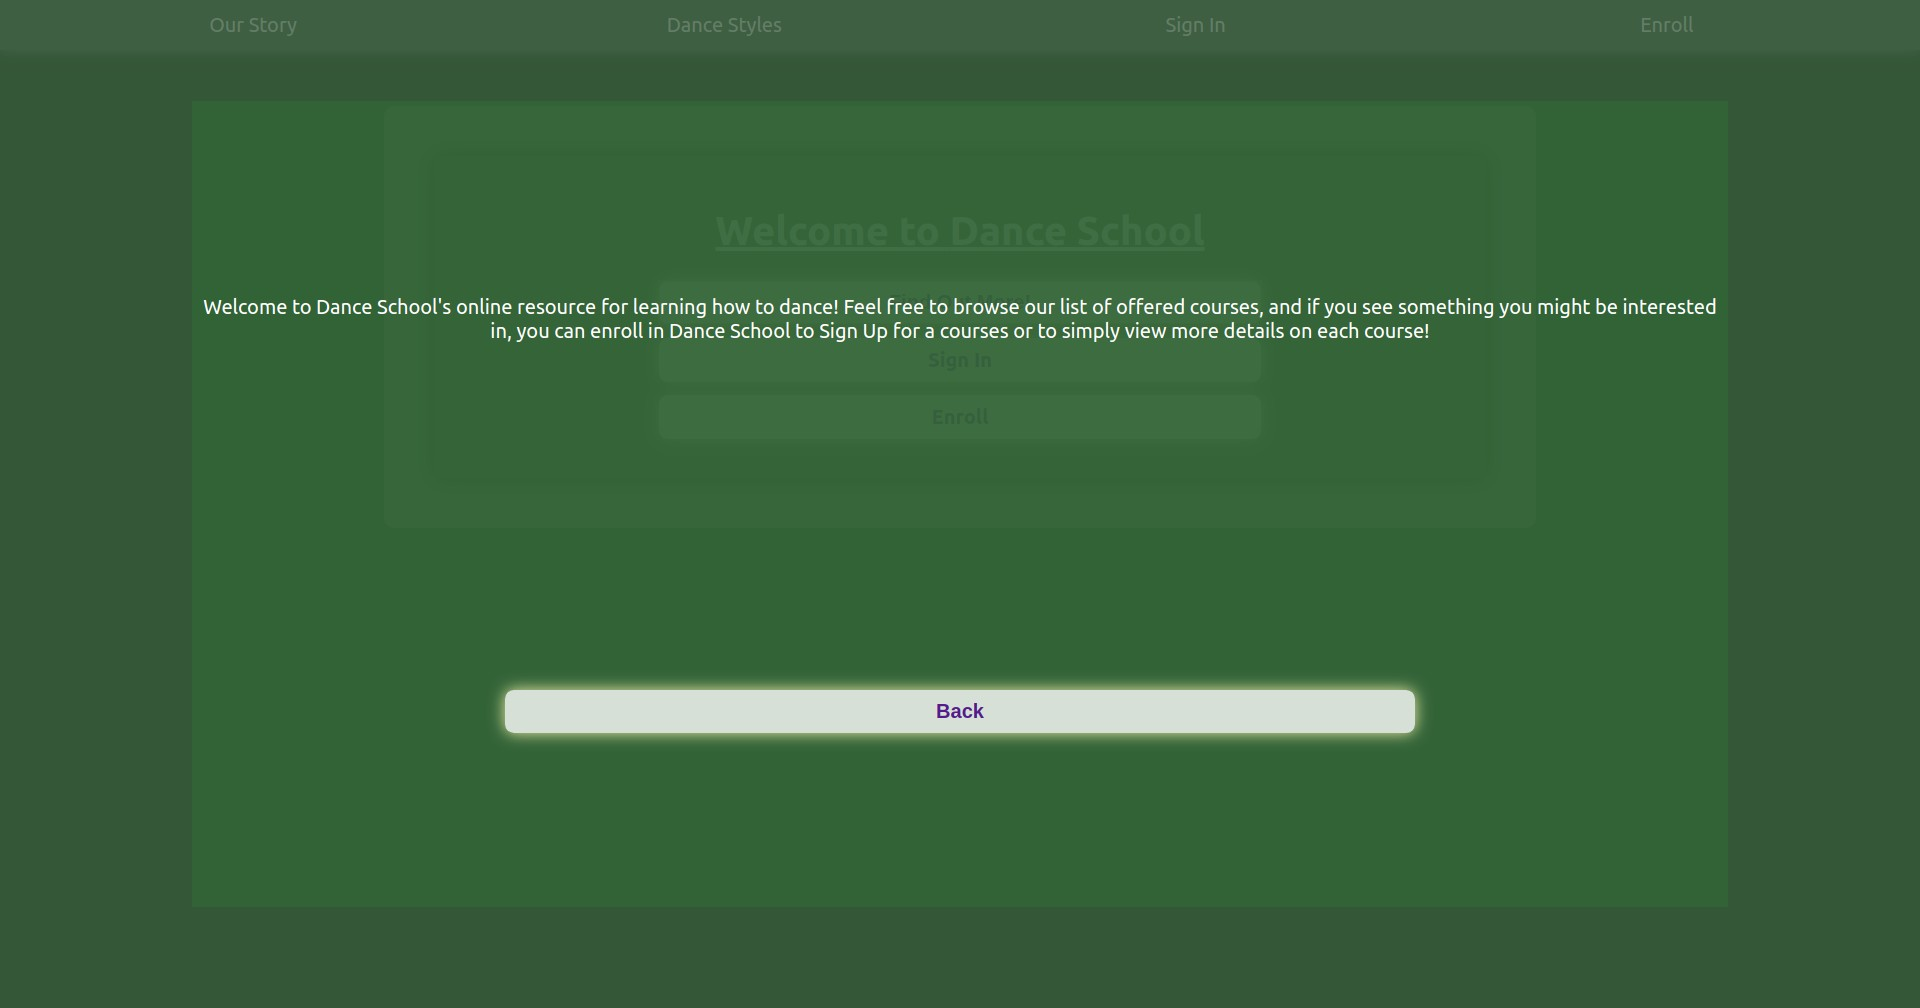
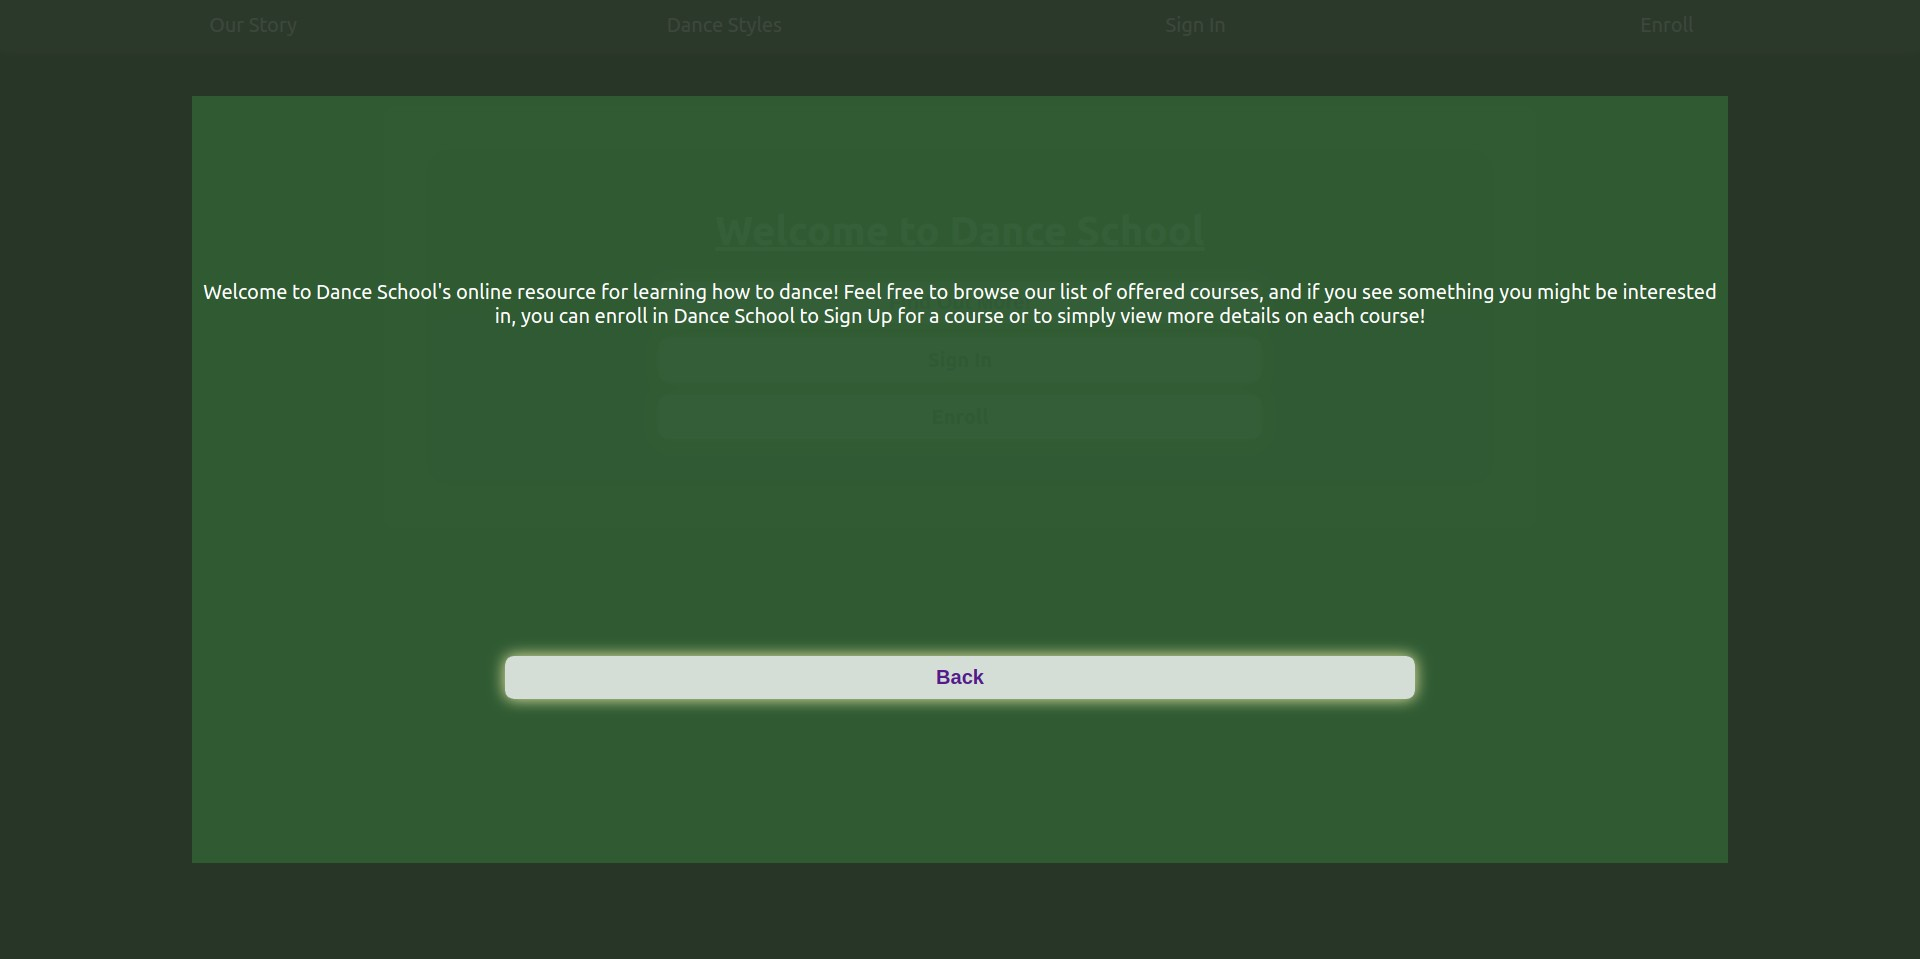
Adding to ReadMe and updating typos

diff --git a/src/reducers/staticReducer.js b/src/reducers/staticReducer.js
@@ -4,14 +4,18 @@ import { OUR_STORY } from '../actions/staticActions'
 
 
 const bio = 
-`Dance School started out when the owners wanted to learn to dance
- for their wedding. The went to a few local events and soon found out
- that their location (and jsut about everywhere) has a local
- dance underground network! They found a group of elitist ballroom 
- dancers so they and some friends began learning. Soon there was enough
- popularity they were hosting weekly socials which become popular between towns.
+ `Dance School began with Dave and Lilian wanting to learn to dance
+ for their wedding. After attending a few local events, they soon found out
+ that their own town (among most other places) had an intricate network 
+ revolving dance culture. They befriended a group of elitist ballroom 
+ dancers that saw their ambition and gave them a variety instruction. Soon enough,
+  their friends and family began to feel the influence of their presence at parties,
+  and decided they wouldn't mind learning a few steps themselves. Before long,
+they were hosting weekly socials, attracting attendance from surrounding towns.
  Today Dance school offers several types of dance for a multitude of skill levels, 
- and is an emense resource for dance competitions, events, and techniques. `
+ and is an emense resource for dance competitions, events, and techniques. Today,
+  Dave and Lily use their presence in the local dance culture to give teachers and 
+  interested toe-tappers alike an opportunity to collaborate grow through dancing!`
 
 
 

diff --git a/src/components/landing/landingIntro.js b/src/components/landing/landingIntro.js
@@ -15,7 +15,7 @@ export default function LandingIntro(props) {
         <p>
           Welcome to Dance School's online resource for learning how to dance!
           Feel free to browse our list of offered courses, and if you see something
-            you might be interested in, you can enroll in Dance School to Sign Up for a courses
+            you might be interested in, you can enroll in Dance School to Sign Up for a course
             or to simply view more details on each course!
         </p>
         <button className="appInfoButton" onClick={() => props.onClick()}>Back</button>

diff --git a/src/components/about/ourStory.js b/src/components/about/ourStory.js
@@ -9,7 +9,6 @@ import './ourStory.css';
   return (
     <div className="ourStory">
       <h4 className="bioText">
-        Hello Then!i
         {props.bio}
       </h4>
     </div>

diff --git a/README.md b/README.md
@@ -1,68 +1,139 @@
-<!-- This project was bootstrapped with [Create React App](https://github.com/facebook/create-react-app).
+<h1> <a href="https://learn-to-dance.herokuapp.com/">Dance-School</a> </h1>
 
-## Available Scripts
+<a id="backToTop"></a>
 
-In the project directory, you can run:
+<p>Applied Technologies: Javascript, React, Redux, Express, Mongoose</p>
 
-### `npm start`
+<p>Simple platform allows users to enroll in dance school and register for dance courses.</p>
+<ul>
 
-Runs the app in the development mode.<br>
-Open [http://localhost:3000](http://localhost:3000) to view it in the browser.
+<li><a href="#screenShots">ScreenShots</a></li>
+<li><a href="#apiRoutes">API Docs</a></li>
+</ul>
+<section>
 
-The page will reload if you make edits.<br>
-You will also see any lint errors in the console.
 
-### `npm test`
 
-Launches the test runner in the interactive watch mode.<br>
-See the section about [running tests](https://facebook.github.io/create-react-app/docs/running-tests) for more information.
 
-### `npm run build`
+<section id="screenShots">
+<a href="#backToTop">Back to the Top</a>
+  <h2>ScreenShots</h2>
 
-Builds the app for production to the `build` folder.<br>
-It correctly bundles React in production mode and optimizes the build for the best performance.
+<h3>App Info</h3>
+  <img src="" alt="short-app-explanation-screenshot">
 
-The build is minified and the filenames include the hashes.<br>
-Your app is ready to be deployed!
+<h3>Introduction Page</h3>
+  <img src="https://github.com/Vlacross/RSVP/blob/master/public/siteImages/landing.jpeg?raw=true" alt="introduction-landing-page-screenshot">
 
-See the section about [deployment](https://facebook.github.io/create-react-app/docs/deployment) for more information.
+<h3>New Event</h3>
+  <p>Choose a name</p>
+  <img src="https://github.com/Vlacross/RSVP/blob/master/public/siteImages/newEvent/newEvent.jpeg?raw=true" alt="new-event-name-input-screenshot">
+  <p>Fill out event details</p>
+  <img src="https://github.com/Vlacross/RSVP/blob/master/public/siteImages/newEvent/newEventDetails.jpeg?raw=true" alt="form-for-new-event-screenshot">
 
-### `npm run eject`
+<h3>New User Account</h3>
+  <p>Search for an event by name</p>
+  <img src="https://github.com/Vlacross/RSVP/blob/master/public/siteImages/newUser/signUp.jpeg?raw=true" alt="search-for-event-name-screenshot">
+  <p>Fill out account details</p>
+  <img src="https://github.com/Vlacross/RSVP/blob/master/public/siteImages/newUser/newUserForm.jpeg?raw=true" alt="newUser-signUp-form-screenshot">
 
-**Note: this is a one-way operation. Once you `eject`, you can’t go back!**
+<h3>App Usage</h3>
+  <p>Homepage Event Updates</p>
+  <img src="https://github.com/Vlacross/RSVP/blob/master/public/siteImages/appUse/HomepageFeed.jpeg?raw=true" alt="homePage-event-update-feed-screenshot">
 
-If you aren’t satisfied with the build tool and configuration choices, you can `eject` at any time. This command will remove the single build dependency from your project.
+  <p>User Accout Details</p>
+  <img src="https://github.com/Vlacross/RSVP/blob/master/public/siteImages/appUse/accountDetails.jpeg?raw=true" alt="user-account-details-screenshot">
 
-Instead, it will copy all the configuration files and the transitive dependencies (Webpack, Babel, ESLint, etc) right into your project so you have full control over them. All of the commands except `eject` will still work, but they will point to the copied scripts so you can tweak them. At this point you’re on your own.
+  <p>Account Details Edit</p>
+  <img src="https://github.com/Vlacross/RSVP/blob/master/public/siteImages/appUse/accountEdit.jpeg?raw=true" alt="Account-edit-form-screenshot">
 
-You don’t have to ever use `eject`. The curated feature set is suitable for small and middle deployments, and you shouldn’t feel obligated to use this feature. However we understand that this tool wouldn’t be useful if you couldn’t customize it when you are ready for it.
+  <p>Event Details</p>
+  <img src="https://github.com/Vlacross/RSVP/blob/master/public/siteImages/appUse/eventDetails.jpeg?raw=true" alt="event-details-screenshot">
 
-## Learn More
+  <p>Single Post View</p>
+  <img src="https://github.com/Vlacross/RSVP/blob/master/public/siteImages/appUse/singlePostWithComments.jpeg?raw=true" alt="single-post-view-with-comment-palette-screenshot">
 
-You can learn more in the [Create React App documentation](https://facebook.github.io/create-react-app/docs/getting-started).
+<h3>Login Screen</h3>
+  <img src="https://github.com/Vlacross/RSVP/blob/master/public/siteImages/login/login.jpeg?raw=true" alt="login-screen-screenshot">
 
-To learn React, check out the [React documentation](https://reactjs.org/).
+<h3>Admin Account</h3>
+  <p>Admin Home View</p>
+  <img src="https://github.com/Vlacross/RSVP/blob/master/public/siteImages/AdminUse/AdminHome.jpeg?raw=true" alt="admin-event-feed-view-screenshot">
 
-### Code Splitting
+  <p>Event User List</p>
+  <img src="https://github.com/Vlacross/RSVP/blob/master/public/siteImages/AdminUse/AdminEventUserList.jpeg?raw=true" alt="admin-view-event-user-list-with-roles-screenshot">
 
-This section has moved here: https://facebook.github.io/create-react-app/docs/code-splitting
+<h3>Mobile Navbar</h3>
 
-### Analyzing the Bundle Size
+<p>Hidden Nav Tab</p>
+<img src="https://github.com/Vlacross/RSVP/blob/master/public/siteImages/mobileNav/hiddenNav.jpeg?raw=true" alt="hidden-nav-tab-screenshot">
 
-This section has moved here: https://facebook.github.io/create-react-app/docs/analyzing-the-bundle-size
+<p>Exposed Nav Tab</p>
+<img src="https://github.com/Vlacross/RSVP/blob/master/public/siteImages/mobileNav/exposedNavTab.jpeg?raw=true" alt="exposed-nav-tab-screenshot">
 
-### Making a Progressive Web App
+<p>Mobile Nav Menu</p>
+<img src="https://github.com/Vlacross/RSVP/blob/master/public/siteImages/mobileNav/mobileNav.jpeg?raw=true" alt="mobile-nav-menu-screenshot">
 
-This section has moved here: https://facebook.github.io/create-react-app/docs/making-a-progressive-web-app
 
-### Advanced Configuration
+</section>
 
-This section has moved here: https://facebook.github.io/create-react-app/docs/advanced-configuration
 
-### Deployment
+<section class="apiRoutes">
 
-This section has moved here: https://facebook.github.io/create-react-app/docs/deployment
+<a id="apiRoutes"><h1>API Routes</h1></a>
+<a href="#backToTop">Back to the Top</a>
 
-### `npm run build` fails to minify
+<p>The api for the app has 5 main routes from the server root</p>
+<h2>Root(/)</h2>
 
-This section has moved here: https://facebook.github.io/create-react-app/docs/troubleshooting#npm-run-build-fails-to-minify -->
+<h3>comments</h3>
+  <p>/create(allows users to leave comments)</p>
+  <p>/delete:id(allows users to remove comments)</p>
+
+<h3>events</h3>
+  <p>find:id(allows the app-client to search for existing events)</p>
+
+<h3>login</h3>
+  <p>create(allows users to create an account)</p>
+  <p>eventCheck(allows the app-client to check the availability of a unique event name)</p>
+  <p>newEvent(allows a user to create a new event)</p>
+
+<h3>posts</h3>
+  <p>create(allows authorized users to leave updates about event)</p>
+  <p>delete:id(allows authorized users to remove updates)</p>
+  <p>find:id(allows app-client to search for list of update posts related to current user's event)</p>
+  <p>findPost:id(allows app-client to render more accurate data about specific update post)</p>
+
+<h3>users</h3>
+  <p>details(allows users to update details on their account)</p>
+  <p>find:id(allows MasterAdmin to search a list ofevent users and their roles)</p>
+  <p>findOne:id(allows users to obtain account data when they pass authorization)</p>
+  <p>roles(allows MasterAdmin to change user roles)</p>
+
+
+
+<h3>API Routes Tree</h3>
+
+<img src="" alt="api-routes-in-terminal-tree-diagram">
+
+<a href="#backToTop">Back to the Top</a>
+</section>
+
+
+
+
+
+
+
+
+
+
+
+
+
+
+
+
+
+
+
